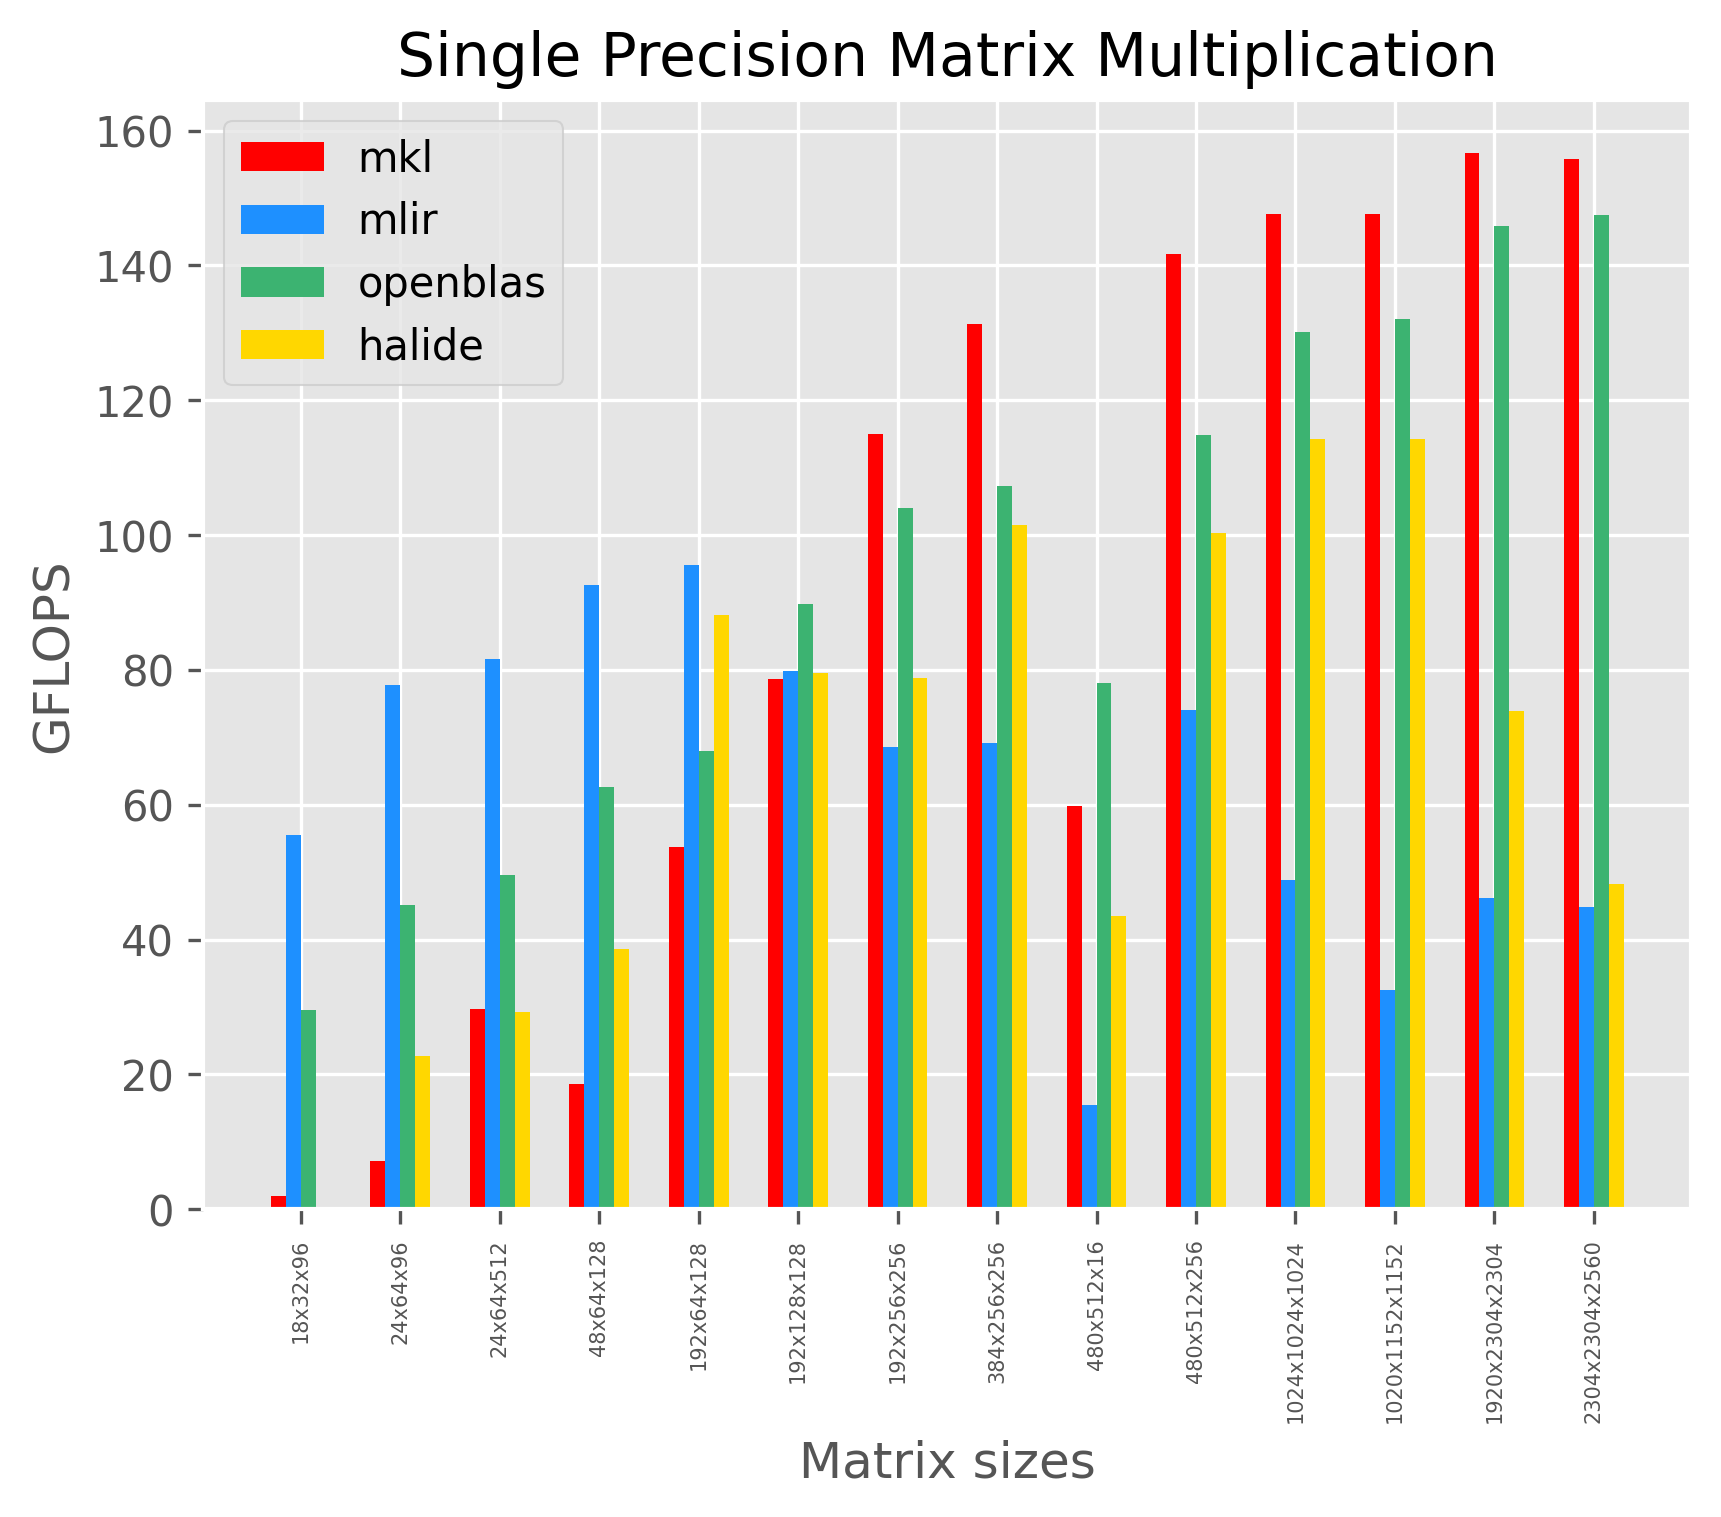
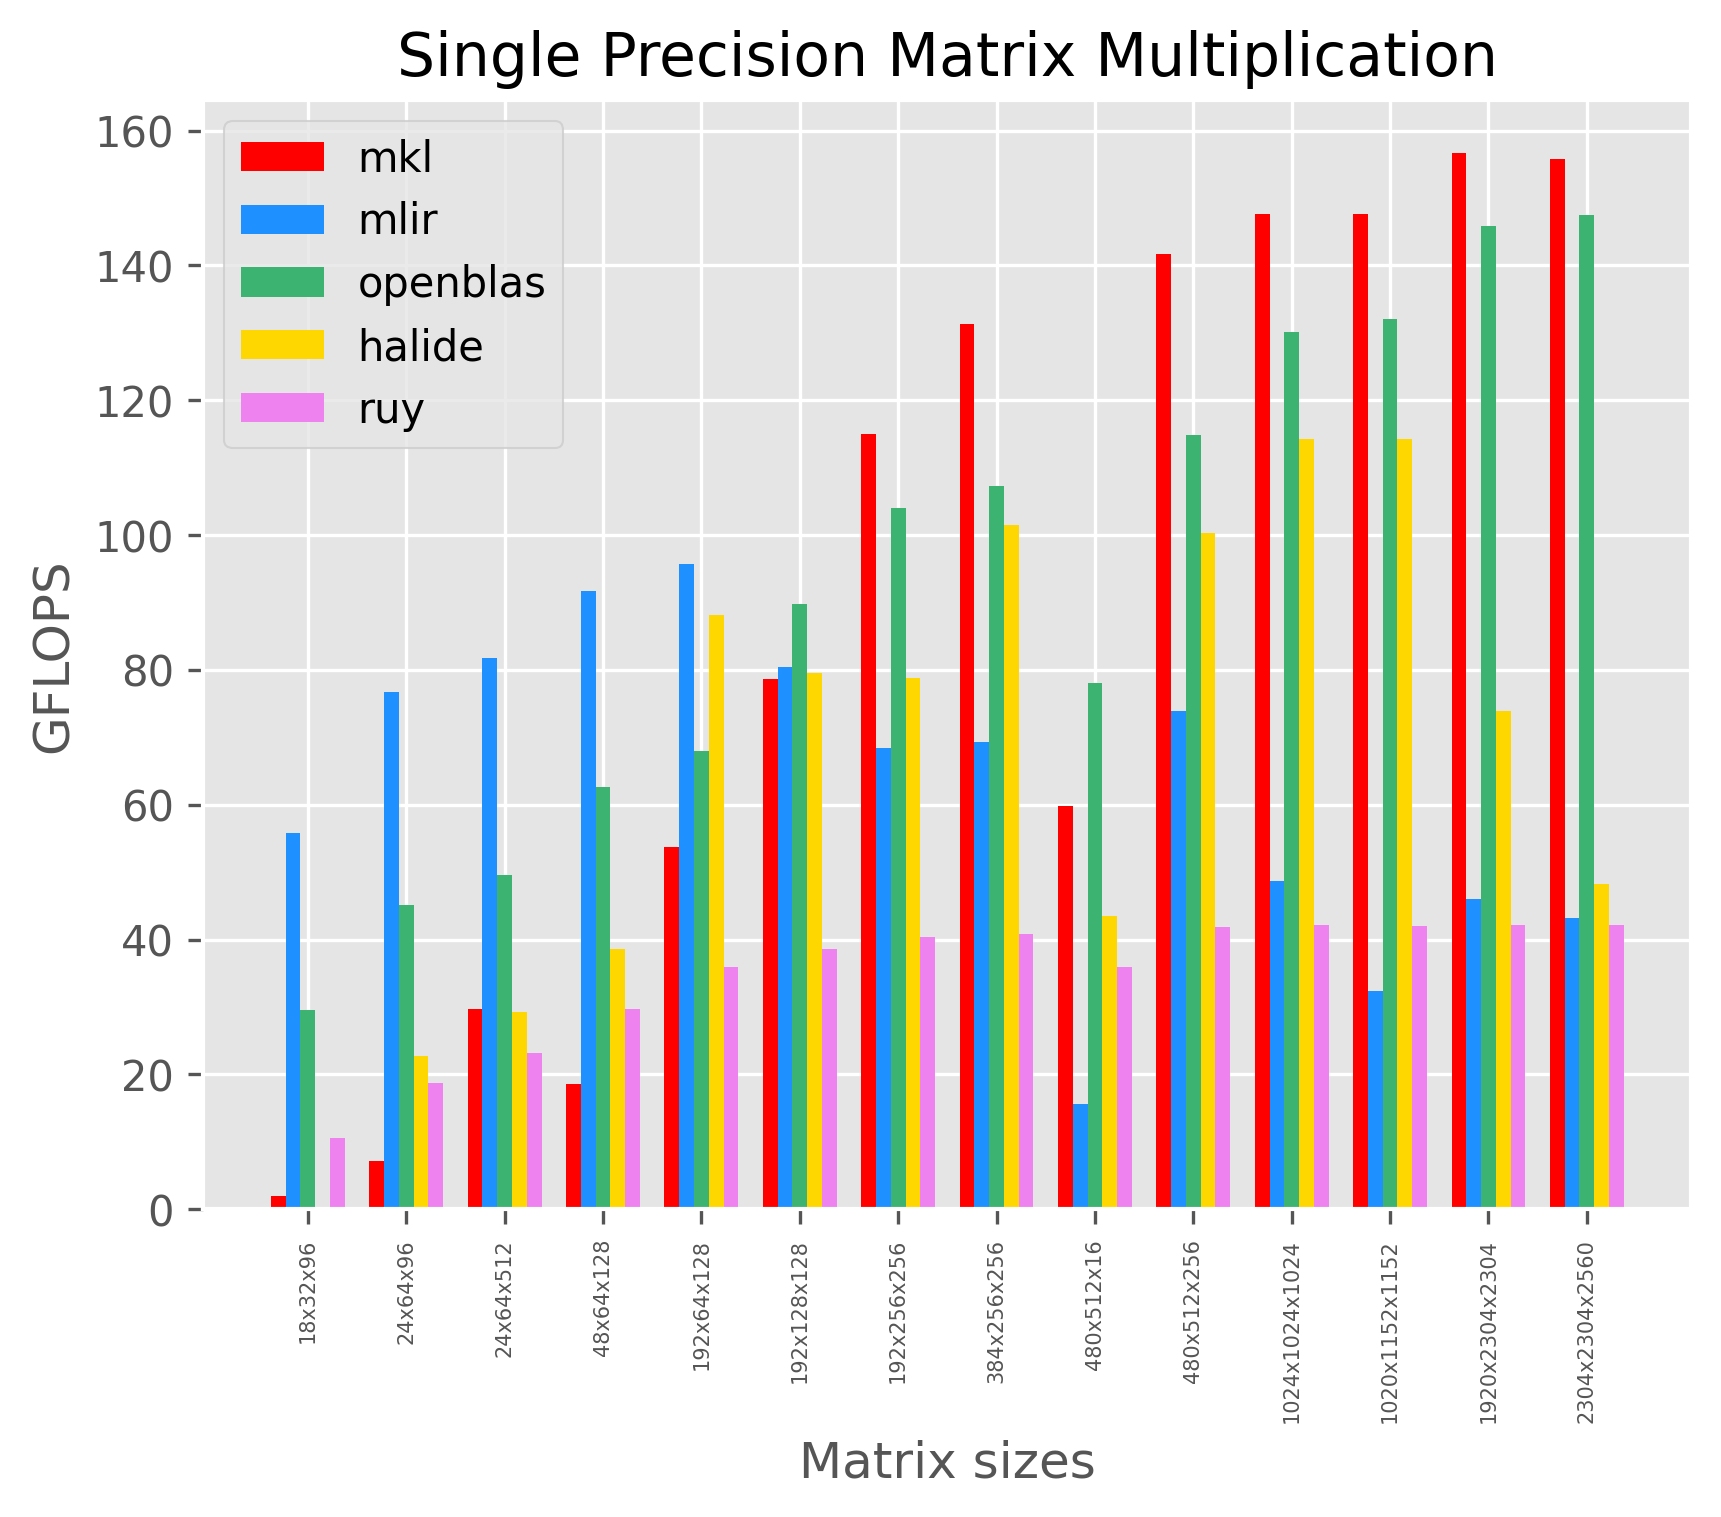
Add comparison to Ruy

diff --git a/Codegen/matmul/main.c b/Codegen/matmul/main.c
@@ -4,6 +4,8 @@
 #include "cblas.h"
 #elif defined(HALIDE)
 #include "halide_blas.h"
+#elif defined(RUY)
+#include "ruy/ruy.h"
 #endif
 #include "stdio.h"
 #include "stdlib.h"
@@ -12,6 +14,9 @@
 
 #define STRING(s) #s
 #define TO_STRING(x) STRING(x)
+
+#ifdef MLIR
+//extern "C" {
 
 struct memref_t {
   float *aligned;
@@ -27,6 +32,9 @@ void matmul(float *aligned_a, float *allocated_a, int64_t offset_a,
             int64_t size_b0, int64_t size_b1, int64_t strides_b0, int64_t strides_b1,
             float *aligned_c, float *allocated_c, int64_t offset_c,
             int64_t size_c0, int64_t size_c1, int64_t strides_c0, int64_t strides_c1);
+
+//}
+#endif
 
 double rtclock() {
   struct timezone Tzp;
@@ -52,7 +60,9 @@ int main(int argc, char **argv) {
   printf("Benchmarking OpenBLAS %d x %d x %d [%d times] \n", MDIM, NDIM, KDIM, NUM_REPS);
 #elif defined(HALIDE)
   printf("Benchmarking Halide %d x %d x %d [%d times] \n", MDIM, NDIM, KDIM, NUM_REPS);
-#else
+#elif defined(RUY)
+  printf("Benchmarking Ruy %d x %d x %d [%d times] \n", MDIM, NDIM, KDIM, NUM_REPS);
+#elif defined(MLIR)
   printf("Benchmarking MLIR %d x %d x %d [%d times] \n", MDIM, NDIM, KDIM, NUM_REPS);
 #endif
   double t_start, t_end;
@@ -70,6 +80,22 @@ int main(int argc, char **argv) {
   float alpha = 1.0;
   float beta = 1.0;
 
+#ifdef RUY
+  ruy::Context context;
+  context.set_max_num_threads(1);
+  ruy::Matrix<float> lhs;
+  ruy::MakeSimpleLayout(MDIM, KDIM, ruy::Order::kColMajor, lhs.mutable_layout());
+  lhs.set_data(A);
+  ruy::Matrix<float> rhs;
+  ruy::MakeSimpleLayout(KDIM, NDIM, ruy::Order::kColMajor, rhs.mutable_layout());
+  rhs.set_data(B);
+  ruy::Matrix<float> dst;
+  ruy::MakeSimpleLayout(MDIM, NDIM, ruy::Order::kColMajor, dst.mutable_layout());
+  dst.set_data(C);
+  ruy::MulParams<float, float> mul_params;
+  mul_params.set_bias(C);
+#endif
+
   for (int t = 0; t < NUM_REPS; ++t) {
 #if defined(MKL) || defined(OPENBLAS)
     cblas_sgemm(CblasColMajor, CblasNoTrans, CblasNoTrans, MDIM, NDIM, KDIM, alpha,
@@ -77,7 +103,9 @@ int main(int argc, char **argv) {
 #elif defined(HALIDE)
     hblas_sgemm(HblasColMajor, HblasNoTrans, HblasNoTrans, MDIM, NDIM, KDIM, alpha,
                 A, LDA, B, LDB, beta, C, LDC);
-#else
+#elif defined(RUY)
+    ruy::Mul(lhs, rhs, mul_params, &context, &dst);
+#elif defined(MLIR)
     matmul(A, A, 0, MDIM, KDIM, 1, LDA,
            B, B, 0, KDIM, NDIM, 1, LDB,
 	   C, C, 0, MDIM, NDIM, 1, LDC);

diff --git a/Codegen/plot_results.py b/Codegen/plot_results.py
@@ -33,15 +33,17 @@ if __name__ == "__main__":
                         help='Path to OpenBLAS performance results', default='openblas/')
     parser.add_argument('-halide_dir', dest='halide_dir', action='store',
                         help='Path to Halide performance results', default='halide/')
+    parser.add_argument('-ruy_dir', dest='ruy_dir', action='store',
+                        help='Path to Ruy performance results', default='ruy/')
     args = parser.parse_args()
 
     sizes = None
     with open(args.matrix_sizes, 'r') as f:
         sizes = f.read().splitlines()
 
-    dirs = [args.mkl_dir, args.mlir_dir, args.openblas_dir, args.halide_dir]
-    labels = ['mkl', 'mlir', 'openblas', 'halide']
-    colors = ['red', 'dodgerblue', 'mediumseagreen', 'gold']
+    dirs = [args.mkl_dir, args.mlir_dir, args.openblas_dir, args.halide_dir, args.ruy_dir]
+    labels = ['mkl', 'mlir', 'openblas', 'halide', 'ruy']
+    colors = ['red', 'dodgerblue', 'mediumseagreen', 'gold', 'violet']
 
     for i in range(len(labels)):
         plot(sizes, dirs[i], labels[i], colors[i], i)
@@ -49,7 +51,7 @@ if __name__ == "__main__":
     plt.xlabel("Matrix sizes")
     plt.ylabel("GFLOPS")
     plt.title("Single Precision Matrix Multiplication")
-    x_pos = [i + 1.5*width for i, _ in enumerate(sizes)]
+    x_pos = [i + 0.5*(len(labels) - 1)*width for i, _ in enumerate(sizes)]
     plt.xticks(x_pos, sizes, rotation=90, fontsize=5)
     plt.legend(loc='best')
     plt.savefig('matmul.png', dpi=300, bbox_inches='tight')
